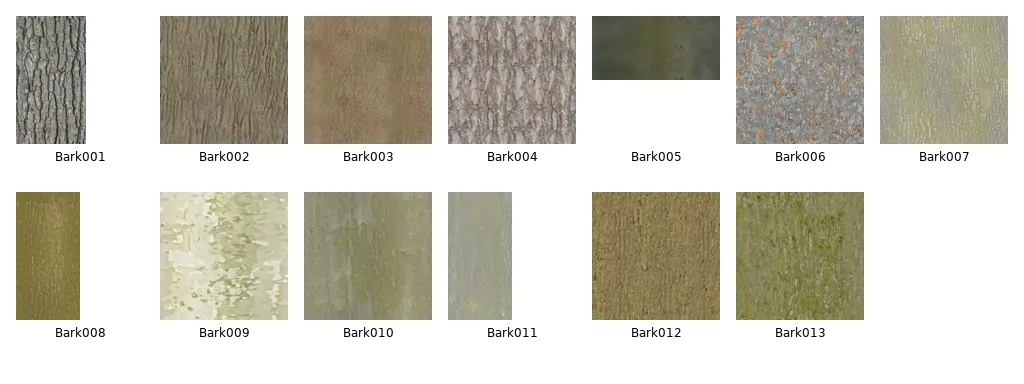
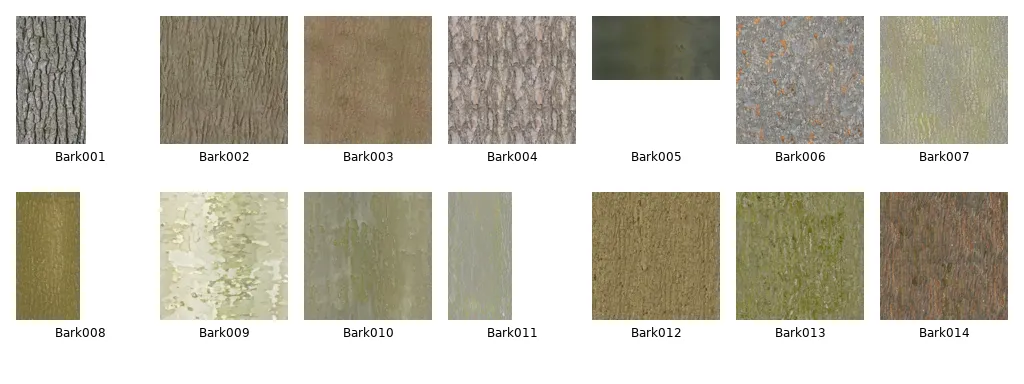
version: v2024.02.29

Changed region(s): [[0.8438, 0.5, 1.0, 0.875]]

diff --git a/README.md b/README.md
@@ -5,19 +5,19 @@ The texture are resized to 3 sizes, so you can choose quality.
 
 3 qualities available: 256, 512 and 1024 pixels width.
 
-Current version: 2023.11.23<br>
-Total textures: 1316
+Current version: 2024.02.29<br>
+Total textures: 1365
 
 ## Install
 
 Just download the .sh3t file you want and use the texture library import feature from Sweethome3D from "Furniture" menu.
 
 
-* [ambientcg_1024.sh3t](https://fenouil-drive.mycozy.cloud/public?sharecode=QyiDq6EIACQi) - 196.7 MB
+* [ambientcg_1024.sh3t](https://fenouil-drive.mycozy.cloud/public?sharecode=QyiDq6EIACQi) - 203.1 MB
 
-* [ambientcg_512.sh3t](https://fenouil-drive.mycozy.cloud/public?sharecode=u2Ps0zAB8cij) - 51.0 MB
+* [ambientcg_512.sh3t](https://fenouil-drive.mycozy.cloud/public?sharecode=u2Ps0zAB8cij) - 52.8 MB
 
-* [ambientcg_256.sh3t](https://fenouil-drive.mycozy.cloud/public?sharecode=3gsbVKG3PFBM) - 13.5 MB
+* [ambientcg_256.sh3t](https://fenouil-drive.mycozy.cloud/public?sharecode=3gsbVKG3PFBM) - 14.0 MB
 
 
 ## Missing dimensions
@@ -56,240 +56,260 @@ The current code and content follow the same licence.
 
 ### Asphalt
 <picture>
-  <img alt="Preview of Asphalt" src="https://raw.githubusercontent.com/fabien-michel/sweethome3d-textures-ambientcg/v2023.11.23/previews/Asphalt.webp">
+  <img alt="Preview of Asphalt" src="https://raw.githubusercontent.com/fabien-michel/sweethome3d-textures-ambientcg/v2024.02.29/previews/Asphalt.webp">
 </picture>
 
 ### Bamboo
 <picture>
-  <img alt="Preview of Bamboo" src="https://raw.githubusercontent.com/fabien-michel/sweethome3d-textures-ambientcg/v2023.11.23/previews/Bamboo.webp">
+  <img alt="Preview of Bamboo" src="https://raw.githubusercontent.com/fabien-michel/sweethome3d-textures-ambientcg/v2024.02.29/previews/Bamboo.webp">
 </picture>
 
 ### Bark
 <picture>
-  <img alt="Preview of Bark" src="https://raw.githubusercontent.com/fabien-michel/sweethome3d-textures-ambientcg/v2023.11.23/previews/Bark.webp">
+  <img alt="Preview of Bark" src="https://raw.githubusercontent.com/fabien-michel/sweethome3d-textures-ambientcg/v2024.02.29/previews/Bark.webp">
 </picture>
 
 ### Bricks
 <picture>
-  <img alt="Preview of Bricks" src="https://raw.githubusercontent.com/fabien-michel/sweethome3d-textures-ambientcg/v2023.11.23/previews/Bricks.webp">
+  <img alt="Preview of Bricks" src="https://raw.githubusercontent.com/fabien-michel/sweethome3d-textures-ambientcg/v2024.02.29/previews/Bricks.webp">
 </picture>
 
 ### Cardboard
 <picture>
-  <img alt="Preview of Cardboard" src="https://raw.githubusercontent.com/fabien-michel/sweethome3d-textures-ambientcg/v2023.11.23/previews/Cardboard.webp">
+  <img alt="Preview of Cardboard" src="https://raw.githubusercontent.com/fabien-michel/sweethome3d-textures-ambientcg/v2024.02.29/previews/Cardboard.webp">
 </picture>
 
 ### Carpet
 <picture>
-  <img alt="Preview of Carpet" src="https://raw.githubusercontent.com/fabien-michel/sweethome3d-textures-ambientcg/v2023.11.23/previews/Carpet.webp">
+  <img alt="Preview of Carpet" src="https://raw.githubusercontent.com/fabien-michel/sweethome3d-textures-ambientcg/v2024.02.29/previews/Carpet.webp">
 </picture>
 
 ### Chainmail
 <picture>
-  <img alt="Preview of Chainmail" src="https://raw.githubusercontent.com/fabien-michel/sweethome3d-textures-ambientcg/v2023.11.23/previews/Chainmail.webp">
+  <img alt="Preview of Chainmail" src="https://raw.githubusercontent.com/fabien-michel/sweethome3d-textures-ambientcg/v2024.02.29/previews/Chainmail.webp">
 </picture>
 
 ### Chipboard
 <picture>
-  <img alt="Preview of Chipboard" src="https://raw.githubusercontent.com/fabien-michel/sweethome3d-textures-ambientcg/v2023.11.23/previews/Chipboard.webp">
+  <img alt="Preview of Chipboard" src="https://raw.githubusercontent.com/fabien-michel/sweethome3d-textures-ambientcg/v2024.02.29/previews/Chipboard.webp">
 </picture>
 
 ### Clay
 <picture>
-  <img alt="Preview of Clay" src="https://raw.githubusercontent.com/fabien-michel/sweethome3d-textures-ambientcg/v2023.11.23/previews/Clay.webp">
+  <img alt="Preview of Clay" src="https://raw.githubusercontent.com/fabien-michel/sweethome3d-textures-ambientcg/v2024.02.29/previews/Clay.webp">
 </picture>
 
 ### Concrete
 <picture>
-  <img alt="Preview of Concrete" src="https://raw.githubusercontent.com/fabien-michel/sweethome3d-textures-ambientcg/v2023.11.23/previews/Concrete.webp">
+  <img alt="Preview of Concrete" src="https://raw.githubusercontent.com/fabien-michel/sweethome3d-textures-ambientcg/v2024.02.29/previews/Concrete.webp">
 </picture>
 
 ### Cork
 <picture>
-  <img alt="Preview of Cork" src="https://raw.githubusercontent.com/fabien-michel/sweethome3d-textures-ambientcg/v2023.11.23/previews/Cork.webp">
+  <img alt="Preview of Cork" src="https://raw.githubusercontent.com/fabien-michel/sweethome3d-textures-ambientcg/v2024.02.29/previews/Cork.webp">
 </picture>
 
 ### CorrugatedSteel
 <picture>
-  <img alt="Preview of CorrugatedSteel" src="https://raw.githubusercontent.com/fabien-michel/sweethome3d-textures-ambientcg/v2023.11.23/previews/CorrugatedSteel.webp">
+  <img alt="Preview of CorrugatedSteel" src="https://raw.githubusercontent.com/fabien-michel/sweethome3d-textures-ambientcg/v2024.02.29/previews/CorrugatedSteel.webp">
 </picture>
 
 ### DiamondPlate
 <picture>
-  <img alt="Preview of DiamondPlate" src="https://raw.githubusercontent.com/fabien-michel/sweethome3d-textures-ambientcg/v2023.11.23/previews/DiamondPlate.webp">
+  <img alt="Preview of DiamondPlate" src="https://raw.githubusercontent.com/fabien-michel/sweethome3d-textures-ambientcg/v2024.02.29/previews/DiamondPlate.webp">
 </picture>
 
 ### Fabric
 <picture>
-  <img alt="Preview of Fabric" src="https://raw.githubusercontent.com/fabien-michel/sweethome3d-textures-ambientcg/v2023.11.23/previews/Fabric.webp">
+  <img alt="Preview of Fabric" src="https://raw.githubusercontent.com/fabien-michel/sweethome3d-textures-ambientcg/v2024.02.29/previews/Fabric.webp">
 </picture>
 
 ### Foil
 <picture>
-  <img alt="Preview of Foil" src="https://raw.githubusercontent.com/fabien-michel/sweethome3d-textures-ambientcg/v2023.11.23/previews/Foil.webp">
+  <img alt="Preview of Foil" src="https://raw.githubusercontent.com/fabien-michel/sweethome3d-textures-ambientcg/v2024.02.29/previews/Foil.webp">
 </picture>
 
 ### GlazedTerracotta
 <picture>
-  <img alt="Preview of GlazedTerracotta" src="https://raw.githubusercontent.com/fabien-michel/sweethome3d-textures-ambientcg/v2023.11.23/previews/GlazedTerracotta.webp">
+  <img alt="Preview of GlazedTerracotta" src="https://raw.githubusercontent.com/fabien-michel/sweethome3d-textures-ambientcg/v2024.02.29/previews/GlazedTerracotta.webp">
 </picture>
 
 ### Granite
 <picture>
-  <img alt="Preview of Granite" src="https://raw.githubusercontent.com/fabien-michel/sweethome3d-textures-ambientcg/v2023.11.23/previews/Granite.webp">
+  <img alt="Preview of Granite" src="https://raw.githubusercontent.com/fabien-michel/sweethome3d-textures-ambientcg/v2024.02.29/previews/Granite.webp">
 </picture>
 
 ### Grass
 <picture>
-  <img alt="Preview of Grass" src="https://raw.githubusercontent.com/fabien-michel/sweethome3d-textures-ambientcg/v2023.11.23/previews/Grass.webp">
+  <img alt="Preview of Grass" src="https://raw.githubusercontent.com/fabien-michel/sweethome3d-textures-ambientcg/v2024.02.29/previews/Grass.webp">
 </picture>
 
 ### Gravel
 <picture>
-  <img alt="Preview of Gravel" src="https://raw.githubusercontent.com/fabien-michel/sweethome3d-textures-ambientcg/v2023.11.23/previews/Gravel.webp">
+  <img alt="Preview of Gravel" src="https://raw.githubusercontent.com/fabien-michel/sweethome3d-textures-ambientcg/v2024.02.29/previews/Gravel.webp">
 </picture>
 
 ### Ground
 <picture>
-  <img alt="Preview of Ground" src="https://raw.githubusercontent.com/fabien-michel/sweethome3d-textures-ambientcg/v2023.11.23/previews/Ground.webp">
+  <img alt="Preview of Ground" src="https://raw.githubusercontent.com/fabien-michel/sweethome3d-textures-ambientcg/v2024.02.29/previews/Ground.webp">
 </picture>
 
 ### Logs
 <picture>
-  <img alt="Preview of Logs" src="https://raw.githubusercontent.com/fabien-michel/sweethome3d-textures-ambientcg/v2023.11.23/previews/Logs.webp">
+  <img alt="Preview of Logs" src="https://raw.githubusercontent.com/fabien-michel/sweethome3d-textures-ambientcg/v2024.02.29/previews/Logs.webp">
 </picture>
 
 ### Marble
 <picture>
-  <img alt="Preview of Marble" src="https://raw.githubusercontent.com/fabien-michel/sweethome3d-textures-ambientcg/v2023.11.23/previews/Marble.webp">
+  <img alt="Preview of Marble" src="https://raw.githubusercontent.com/fabien-michel/sweethome3d-textures-ambientcg/v2024.02.29/previews/Marble.webp">
 </picture>
 
 ### Metal
 <picture>
-  <img alt="Preview of Metal" src="https://raw.githubusercontent.com/fabien-michel/sweethome3d-textures-ambientcg/v2023.11.23/previews/Metal.webp">
+  <img alt="Preview of Metal" src="https://raw.githubusercontent.com/fabien-michel/sweethome3d-textures-ambientcg/v2024.02.29/previews/Metal.webp">
 </picture>
 
 ### Moss
 <picture>
-  <img alt="Preview of Moss" src="https://raw.githubusercontent.com/fabien-michel/sweethome3d-textures-ambientcg/v2023.11.23/previews/Moss.webp">
+  <img alt="Preview of Moss" src="https://raw.githubusercontent.com/fabien-michel/sweethome3d-textures-ambientcg/v2024.02.29/previews/Moss.webp">
+</picture>
+
+### Net
+<picture>
+  <img alt="Preview of Net" src="https://raw.githubusercontent.com/fabien-michel/sweethome3d-textures-ambientcg/v2024.02.29/previews/Net.webp">
 </picture>
 
 ### OfficeCeiling
 <picture>
-  <img alt="Preview of OfficeCeiling" src="https://raw.githubusercontent.com/fabien-michel/sweethome3d-textures-ambientcg/v2023.11.23/previews/OfficeCeiling.webp">
+  <img alt="Preview of OfficeCeiling" src="https://raw.githubusercontent.com/fabien-michel/sweethome3d-textures-ambientcg/v2024.02.29/previews/OfficeCeiling.webp">
 </picture>
 
 ### Paint
 <picture>
-  <img alt="Preview of Paint" src="https://raw.githubusercontent.com/fabien-michel/sweethome3d-textures-ambientcg/v2023.11.23/previews/Paint.webp">
+  <img alt="Preview of Paint" src="https://raw.githubusercontent.com/fabien-michel/sweethome3d-textures-ambientcg/v2024.02.29/previews/Paint.webp">
 </picture>
 
 ### Paper
 <picture>
-  <img alt="Preview of Paper" src="https://raw.githubusercontent.com/fabien-michel/sweethome3d-textures-ambientcg/v2023.11.23/previews/Paper.webp">
+  <img alt="Preview of Paper" src="https://raw.githubusercontent.com/fabien-michel/sweethome3d-textures-ambientcg/v2024.02.29/previews/Paper.webp">
 </picture>
 
 ### PavingStones
 <picture>
-  <img alt="Preview of PavingStones" src="https://raw.githubusercontent.com/fabien-michel/sweethome3d-textures-ambientcg/v2023.11.23/previews/PavingStones.webp">
+  <img alt="Preview of PavingStones" src="https://raw.githubusercontent.com/fabien-michel/sweethome3d-textures-ambientcg/v2024.02.29/previews/PavingStones.webp">
 </picture>
 
 ### Planks
 <picture>
-  <img alt="Preview of Planks" src="https://raw.githubusercontent.com/fabien-michel/sweethome3d-textures-ambientcg/v2023.11.23/previews/Planks.webp">
+  <img alt="Preview of Planks" src="https://raw.githubusercontent.com/fabien-michel/sweethome3d-textures-ambientcg/v2024.02.29/previews/Planks.webp">
 </picture>
 
 ### Plaster
 <picture>
-  <img alt="Preview of Plaster" src="https://raw.githubusercontent.com/fabien-michel/sweethome3d-textures-ambientcg/v2023.11.23/previews/Plaster.webp">
+  <img alt="Preview of Plaster" src="https://raw.githubusercontent.com/fabien-michel/sweethome3d-textures-ambientcg/v2024.02.29/previews/Plaster.webp">
 </picture>
 
 ### Plastic
 <picture>
-  <img alt="Preview of Plastic" src="https://raw.githubusercontent.com/fabien-michel/sweethome3d-textures-ambientcg/v2023.11.23/previews/Plastic.webp">
+  <img alt="Preview of Plastic" src="https://raw.githubusercontent.com/fabien-michel/sweethome3d-textures-ambientcg/v2024.02.29/previews/Plastic.webp">
 </picture>
 
 ### Porcelain
 <picture>
-  <img alt="Preview of Porcelain" src="https://raw.githubusercontent.com/fabien-michel/sweethome3d-textures-ambientcg/v2023.11.23/previews/Porcelain.webp">
+  <img alt="Preview of Porcelain" src="https://raw.githubusercontent.com/fabien-michel/sweethome3d-textures-ambientcg/v2024.02.29/previews/Porcelain.webp">
 </picture>
 
 ### Road
 <picture>
-  <img alt="Preview of Road" src="https://raw.githubusercontent.com/fabien-michel/sweethome3d-textures-ambientcg/v2023.11.23/previews/Road.webp">
+  <img alt="Preview of Road" src="https://raw.githubusercontent.com/fabien-michel/sweethome3d-textures-ambientcg/v2024.02.29/previews/Road.webp">
 </picture>
 
 ### Rock
 <picture>
-  <img alt="Preview of Rock" src="https://raw.githubusercontent.com/fabien-michel/sweethome3d-textures-ambientcg/v2023.11.23/previews/Rock.webp">
+  <img alt="Preview of Rock" src="https://raw.githubusercontent.com/fabien-michel/sweethome3d-textures-ambientcg/v2024.02.29/previews/Rock.webp">
 </picture>
 
 ### Rocks
 <picture>
-  <img alt="Preview of Rocks" src="https://raw.githubusercontent.com/fabien-michel/sweethome3d-textures-ambientcg/v2023.11.23/previews/Rocks.webp">
+  <img alt="Preview of Rocks" src="https://raw.githubusercontent.com/fabien-michel/sweethome3d-textures-ambientcg/v2024.02.29/previews/Rocks.webp">
 </picture>
 
 ### RoofingTiles
 <picture>
-  <img alt="Preview of RoofingTiles" src="https://raw.githubusercontent.com/fabien-michel/sweethome3d-textures-ambientcg/v2023.11.23/previews/RoofingTiles.webp">
+  <img alt="Preview of RoofingTiles" src="https://raw.githubusercontent.com/fabien-michel/sweethome3d-textures-ambientcg/v2024.02.29/previews/RoofingTiles.webp">
+</picture>
+
+### Rubber
+<picture>
+  <img alt="Preview of Rubber" src="https://raw.githubusercontent.com/fabien-michel/sweethome3d-textures-ambientcg/v2024.02.29/previews/Rubber.webp">
 </picture>
 
 ### Rust
 <picture>
-  <img alt="Preview of Rust" src="https://raw.githubusercontent.com/fabien-michel/sweethome3d-textures-ambientcg/v2023.11.23/previews/Rust.webp">
+  <img alt="Preview of Rust" src="https://raw.githubusercontent.com/fabien-michel/sweethome3d-textures-ambientcg/v2024.02.29/previews/Rust.webp">
+</picture>
+
+### ScatteredLeaves
+<picture>
+  <img alt="Preview of ScatteredLeaves" src="https://raw.githubusercontent.com/fabien-michel/sweethome3d-textures-ambientcg/v2024.02.29/previews/ScatteredLeaves.webp">
 </picture>
 
 ### Snow
 <picture>
-  <img alt="Preview of Snow" src="https://raw.githubusercontent.com/fabien-michel/sweethome3d-textures-ambientcg/v2023.11.23/previews/Snow.webp">
+  <img alt="Preview of Snow" src="https://raw.githubusercontent.com/fabien-michel/sweethome3d-textures-ambientcg/v2024.02.29/previews/Snow.webp">
 </picture>
 
 ### SolarPanel
 <picture>
-  <img alt="Preview of SolarPanel" src="https://raw.githubusercontent.com/fabien-michel/sweethome3d-textures-ambientcg/v2023.11.23/previews/SolarPanel.webp">
+  <img alt="Preview of SolarPanel" src="https://raw.githubusercontent.com/fabien-michel/sweethome3d-textures-ambientcg/v2024.02.29/previews/SolarPanel.webp">
 </picture>
 
 ### Tatami
 <picture>
-  <img alt="Preview of Tatami" src="https://raw.githubusercontent.com/fabien-michel/sweethome3d-textures-ambientcg/v2023.11.23/previews/Tatami.webp">
+  <img alt="Preview of Tatami" src="https://raw.githubusercontent.com/fabien-michel/sweethome3d-textures-ambientcg/v2024.02.29/previews/Tatami.webp">
 </picture>
 
 ### Terrazzo
 <picture>
-  <img alt="Preview of Terrazzo" src="https://raw.githubusercontent.com/fabien-michel/sweethome3d-textures-ambientcg/v2023.11.23/previews/Terrazzo.webp">
+  <img alt="Preview of Terrazzo" src="https://raw.githubusercontent.com/fabien-michel/sweethome3d-textures-ambientcg/v2024.02.29/previews/Terrazzo.webp">
 </picture>
 
 ### ThatchedRoof
 <picture>
-  <img alt="Preview of ThatchedRoof" src="https://raw.githubusercontent.com/fabien-michel/sweethome3d-textures-ambientcg/v2023.11.23/previews/ThatchedRoof.webp">
+  <img alt="Preview of ThatchedRoof" src="https://raw.githubusercontent.com/fabien-michel/sweethome3d-textures-ambientcg/v2024.02.29/previews/ThatchedRoof.webp">
 </picture>
 
 ### Tiles
 <picture>
-  <img alt="Preview of Tiles" src="https://raw.githubusercontent.com/fabien-michel/sweethome3d-textures-ambientcg/v2023.11.23/previews/Tiles.webp">
+  <img alt="Preview of Tiles" src="https://raw.githubusercontent.com/fabien-michel/sweethome3d-textures-ambientcg/v2024.02.29/previews/Tiles.webp">
+</picture>
+
+### Travertine
+<picture>
+  <img alt="Preview of Travertine" src="https://raw.githubusercontent.com/fabien-michel/sweethome3d-textures-ambientcg/v2024.02.29/previews/Travertine.webp">
 </picture>
 
 ### Wallpaper
 <picture>
-  <img alt="Preview of Wallpaper" src="https://raw.githubusercontent.com/fabien-michel/sweethome3d-textures-ambientcg/v2023.11.23/previews/Wallpaper.webp">
+  <img alt="Preview of Wallpaper" src="https://raw.githubusercontent.com/fabien-michel/sweethome3d-textures-ambientcg/v2024.02.29/previews/Wallpaper.webp">
 </picture>
 
 ### Wood
 <picture>
-  <img alt="Preview of Wood" src="https://raw.githubusercontent.com/fabien-michel/sweethome3d-textures-ambientcg/v2023.11.23/previews/Wood.webp">
+  <img alt="Preview of Wood" src="https://raw.githubusercontent.com/fabien-michel/sweethome3d-textures-ambientcg/v2024.02.29/previews/Wood.webp">
 </picture>
 
 ### WoodChips
 <picture>
-  <img alt="Preview of WoodChips" src="https://raw.githubusercontent.com/fabien-michel/sweethome3d-textures-ambientcg/v2023.11.23/previews/WoodChips.webp">
+  <img alt="Preview of WoodChips" src="https://raw.githubusercontent.com/fabien-michel/sweethome3d-textures-ambientcg/v2024.02.29/previews/WoodChips.webp">
 </picture>
 
 ### WoodFloor
 <picture>
-  <img alt="Preview of WoodFloor" src="https://raw.githubusercontent.com/fabien-michel/sweethome3d-textures-ambientcg/v2023.11.23/previews/WoodFloor.webp">
+  <img alt="Preview of WoodFloor" src="https://raw.githubusercontent.com/fabien-michel/sweethome3d-textures-ambientcg/v2024.02.29/previews/WoodFloor.webp">
 </picture>
 
 ### WoodSiding
 <picture>
-  <img alt="Preview of WoodSiding" src="https://raw.githubusercontent.com/fabien-michel/sweethome3d-textures-ambientcg/v2023.11.23/previews/WoodSiding.webp">
+  <img alt="Preview of WoodSiding" src="https://raw.githubusercontent.com/fabien-michel/sweethome3d-textures-ambientcg/v2024.02.29/previews/WoodSiding.webp">
 </picture>
